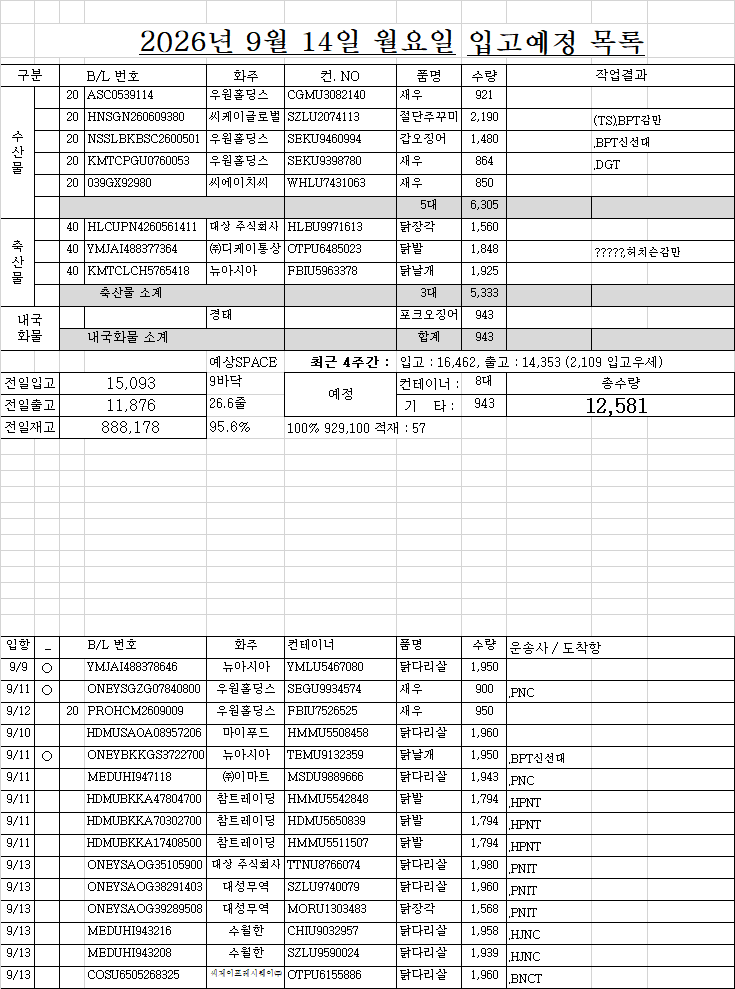
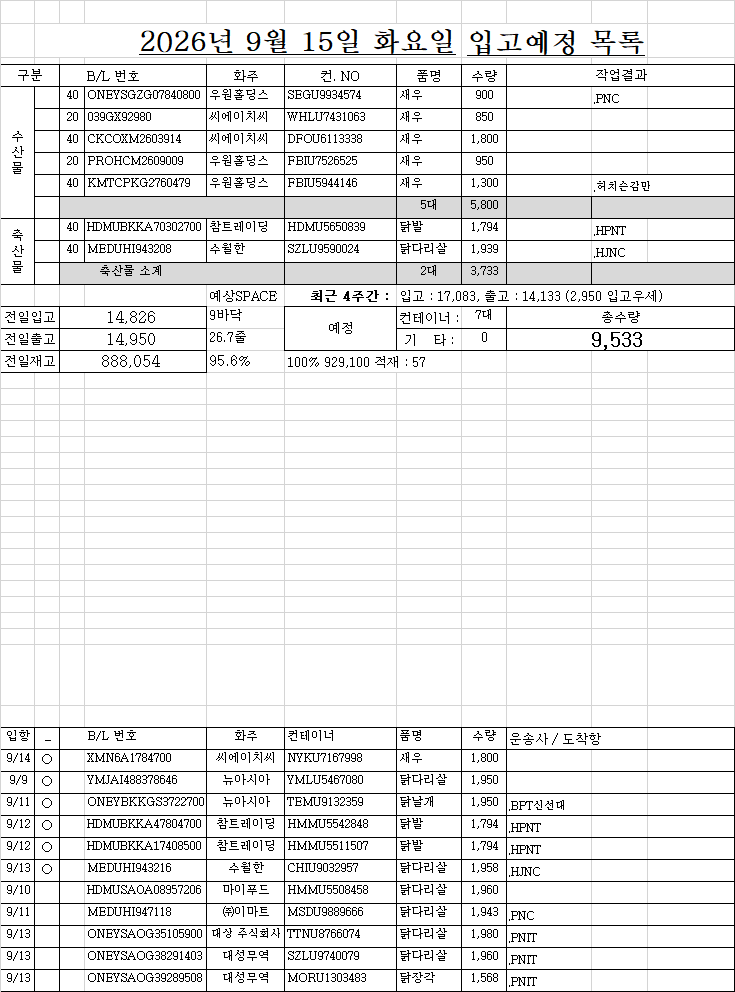
0914

diff --git a/list.html b/list.html
@@ -171,43 +171,41 @@
 <!-- ★★★★★★ 따로 빼 놔야한다. 복붙하면 첫칸 비어도 되는데, 여기서는 첫칸비우면 당겨진다. -->
 <!-- ★ 엑셀범위를 브라우저 textarea에 붙여넣으면 첫셀 비어도 제대로 되는데... HTML에 붙여놓은 자료는 처음셀이 비어있으면 당겨짐 -->
 <div class="d-none" id="원본text_리스트1부터w요약열까지">작성	면허	B/LNO.	화주	컨테이너NO.	품명	수량	반입NO.	입항일	구분	도착일	도착시간	구분	운도VBA	04/27 월 07:21	화찰BL	화찰 선명	화물관리번호	화찰수량	화찰중량	화찰입항	리스트시트기준열	
-1	○	ASC0539114	우원홀딩스	CGMU3082140	새우	921 		9/9	1			20		면허?, CY : (주)비엔씨티(CY), 컨진행 : 반입완료, 선사 : 씨엠에이씨지엠코리아(주)	ASC0539114	CNC PANTHER	26CCAS0354I-2045-	921 	7,979.60 	2026.09.09	09/11 금 16:41	
-1	○	HNSGN260609380	씨케이글로벌	SZLU2074113	절단주꾸미	2,190 		9/10	1			20	(TS).BPT감만		HNSGN260609380	TS GUANGZHOU	26TSLUB107I-1008-0001	2,190 	16,425.00 	2026.09.10	조회정보	
-1	○	NSSLBKBSC2600501	우원홀딩스	SEKU9460994	갑오징어	1,480 		9/11	1			20	.BPT신선대		NSSLBKBSC2600501	PEGASUS PROTO	26NSSLI015I-3001-	1,480 	7,400.00 	2026.09.11	적재	57
-1	○	KMTCPGU0760053	우원홀딩스	SEKU9398780	새우	864 		9/11	1			20	.DGT	면허?, CY : 동원글로벌터미널부산(주), 컨진행 : 입항적재화물목록 제출, 선사 : 만해항운 한국(주)	KMTCPGU0760053	WAN HAI 501	26WHLUCI18I-7018-	864 	14,135.04 	2026.09.11	4,617 	3줄
-1		039GX92980	씨에이치씨	WHLU7431063	새우	850 		9/13	1			20		면허?, CY : 신선대감만터미널(주) 감만CY, 컨진행 : 입항적재화물목록 제출, 선사 : 만해항운 한국(주)	039GX92980	WAN HAI 371	26WHLUVS22I-1087-	850 	9,775.00 	2026.09.13	6,156 	4줄
-1	○	HLCUPN4260561411	대상 주식회사	HLBU9971613	닭장각	1,560 		8/24	2					(주)골든로지텍, CY : 부산신항국제터미널(주), 컨진행 : 보세운송 신고 수리, 선사 : 하파그로이드코리아(주)	HLCUPN4260561411	PRAGUE EXPRESS	26HLCU9950I-7663-	1,560 	24,164.24 	2026.08.24	7,695 	5줄
-1	○	YMJAI488377364	㈜디케이통상	OTPU6485023	닭발	1,848 		9/9	2				?????,허치슨감만	(주)민성로직스, CY : 한국허치슨터미널(주), 컨진행 : 반입완료, 선사 : 오션네트워크익스프레스코리아(주)	YMJAI488377364	MARIA C	26ONEY1339I-4113-	1,848 	23,192.00 	2026.09.09	9,234 	6줄
-1		KMTCLCH5765418	뉴아시아	FBIU5963378	닭날개	1,925 		9/10	2					면허?, CY : 한국허치슨터미널(주), 컨진행 : 반입완료, 선사 : 고려해운(주)	KMTCLCH5765418	SKY SUNSHINE	26KMTC3099I-9008-	1,925 	24,640.00 	2026.09.10	구분	대수
-2	○	YMJAI488378646	뉴아시아	YMLU5467080	닭다리살	1,950 		9/9	2					에이스로지스틱(주), CY : 한국허치슨터미널(주), 컨진행 : 보세운송 신고 수리, 선사 : 오션네트워크익스프레스코리아(주)	YMJAI488378646	MARIA C	26ONEY1339I-4115-	1,950 	24,453.00 	2026.09.09	출고입고	4주간
-2	○	ONEYSGZG07840800	우원홀딩스	SEGU9934574	새우	900 		9/11	1				.PNC	(주)에스에스물류, CY : 부산신항만(주)자유무역지역, 컨진행 : 보세운송 신고 수리, 선사 : 벤라인에이전시즈코리아	ONEYSGZG07840800	X-PRESS BARDSEY	26XPRS2636I-5010-	900 	4,455.00 	2026.09.11	1일 7/5	9바닥줄
-2		PROHCM2609009	우원홀딩스	FBIU7526525	새우	950 		9/12	1			20									14,627 	9.5
-3		HDMUSAOA08957206	마이푸드	HMMU5508458	닭다리살	1,960 		9/10	2					면허?, CY : 에이치엠엠피에스에이신항만(주), 컨진행 : 하선장소 반입기간연장 승인신청, 선사 : 에이치엠엠(주)	HDMUSAOA08957206	HYUNDAI VOYAGER	26HDMUA475I-0078-	1,960 	24,500.00 	2026.09.10	16,452 	10.7
-3	○	ONEYBKKGS3722700	뉴아시아	TEMU9132359	닭날개	1,950 		9/11	2				.BPT신선대	에이스로지스틱(주), CY : 신선대감만터미널(주) 신선대CY, 컨진행 : 입항적재화물목록 운항정보 정정, 선사 : 장금상선(주)	ONEYBKKGS3722700	SAWASDEE BALTIC	26SNKO3315I-3100-	1,950 	24,453.00 	2026.09.11	내국제외	
-3		MEDUHI947118	㈜이마트	MSDU9889666	닭다리살	1,943 		9/11	2				.PNC	면허?, CY : 부산신항만(주)자유무역지역, 컨진행 : 입항적재화물목록 심사완료, 선사 : 엠에스씨코리아(주)	MEDUHI947118	MSC LENI	26MSCU4337I-0331-	1,943 	24,305.08 	2026.09.11	구분	대수
-3		HDMUBKKA47804700	참트레이딩	HMMU5542848	닭발	1,794 		9/11	2				.HPNT	면허?, CY : 에이치엠엠피에스에이신항만(주), 컨진행 : 하선신고 수리완료, 선사 : 에이치엠엠(주)	HDMUBKKA47804700	HMM HARMONY	26HDMUA438I-0150-	1,794 	22,604.40 	2026.09.11	수산	15 
-3		HDMUBKKA70302700	참트레이딩	HDMU5650839	닭발	1,794 		9/11	2				.HPNT	면허?, CY : 에이치엠엠피에스에이신항만(주), 컨진행 : 하선신고 수리완료, 선사 : 에이치엠엠(주)	HDMUBKKA70302700	HMM HARMONY	26HDMUA438I-0155-	1,794 	22,604.40 	2026.09.11	축산	39 
-3		HDMUBKKA17408500	참트레이딩	HMMU5511507	닭발	1,794 		9/11	2				.HPNT	면허?, CY : 에이치엠엠피에스에이신항만(주), 컨진행 : 하선신고 수리완료, 선사 : 에이치엠엠(주)	HDMUBKKA17408500	HMM HARMONY	26HDMUA438I-0137-	1,794 	22,604.40 	2026.09.11	합계	54 
-		ONEYSAOG35105900	대상 주식회사	TTNU8766074	닭다리살	1,980 		9/13	2				.PNIT									
-		ONEYSAOG38291403	대성무역	SZLU9740079	닭다리살	1,960 		9/13	2				.PNIT								화주	대수
-		ONEYSAOG39289508	대성무역	MORU1303483	닭장각	1,568 		9/13	2				.PNIT								수월한	13
-		MEDUHI943216	수월한	CHIU9032957	닭다리살	1,958 		9/13	2				.HJNC	면허?, CY : 한진부산컨테이너터미널(주), 컨진행 : 입항적재화물목록 제출, 선사 : 오션네트워크익스프레스코리아(주)	MEDUHI943216	ONE INGENUITY	26ONEY1455I-1129-	1,958 	24,486.83 	2026.09.13	우원홀딩스	8
-		MEDUHI943208	수월한	SZLU9590024	닭다리살	1,939 		9/13	2				.HJNC	면허?, CY : 한진부산컨테이너터미널(주), 컨진행 : 입항적재화물목록 제출, 선사 : 오션네트워크익스프레스코리아(주)	MEDUHI943208	ONE INGENUITY	26ONEY1455I-1118-	1,939 	24,249.16 	2026.09.13	뉴아시아	5
-		COSU6505268325	씨제이프레시웨이㈜	OTPU6155886	닭다리살	1,960 		9/13	2				.BNCT								수월한 주식회사	5
-		KMTCPKG2760479	우원홀딩스	FBIU5944146	새우	1,300 		9/14	1			40	.허치슨감만								대성무역	4
-		HASLS22260802478	뉴아시아	FBIU5102507	닭고기	1,950 		9/15	2												참트레이딩	3
-		MAEUJBS323107	수월한 주식회사	MNBU3889662	닭다리살	1,952 		9/15	2				.PNC			GUNVOR MAERSK					씨에이치씨	3
-		MAEUJBS322521	수월한 주식회사	MNBU3402959	닭다리살	1,941 		9/15	2				.PNC			확인안함					대상 주식회사	3
-		DJSCBKK260001929	동일	SZLU2068569	절단낙지	1,674 		9/16	1			20									씨케이글로벌	3
-		ONEYSGNGU5969400	우원홀딩스	SZLU2030877	새우	850 		9/16	1			20									마이푸드	2
-		ONEYSGNGU5970300	우원홀딩스	TCLU1909949	새우	660 		9/16	1			20									㈜디케이통상	1
-		HDMUSAOA83035800	수월한	HMMU5426600	닭다리살	1,845 		9/17	2				.HPNT								씨제이프레시웨이㈜	1
-		ONEYSAOG39289506	수월한	FSCU5884536	닭다리살	1,917 		9/19	2				.HJNC								㈜이마트	1
-		MAEUJBS323534	수월한 주식회사	MNBU3209030	닭다리살	1,947 		9/19	2				.PNC			MAERSK SALINA					동일	1
-		HDMUSAOA27114300	수월한	HMMU5410646	닭발	1,551 		9/21	2				.HPNT								주식회사 아스트로스	1
-		ONEYSAOG41254402	대성무역	FSCU5833518	닭장각	1,568 		9/22	2				.PNC									
-		HLCUIT1260704527	수월한	TCLU1190449	닭다리살	1,917 		9/23	2				.PNIT									
-		MAEUJBS322768	수월한 주식회사	MNBU3886339	닭다리살	1,958 		9/24	2				.PNC			MAERSK EDINBURGH						
+1	○	ONEYSGZG07840800	우원홀딩스	SEGU9934574	새우	900 		9/11	1				.PNC	(주)에스에스물류, CY : 부산신항만(주)자유무역지역, 컨진행 : 반입완료, 선사 : 벤라인에이전시즈코리아	ONEYSGZG07840800	X-PRESS BARDSEY	26XPRS2636I-5010-	900 	4,455.00 	2026.09.11	09/14 월 16:41	
+1		039GX92980	씨에이치씨	WHLU7431063	새우	850 		9/13	1			20		면허?, CY : 신선대감만터미널(주) 감만CY, 컨진행 : 입항적재화물목록 운항정보 정정, 선사 : 만해항운 한국(주)	039GX92980	WAN HAI 371	26WHLUVS22I-1087-	850 	9,775.00 	2026.09.13	조회정보	
+1		CKCOXM2603914	씨에이치씨	DFOU6113338	새우	1,800 		9/14	1			40		면허?, CY : 케이씨티시우암컨테이너보세창고, 컨진행 : 입항적재화물목록 운항정보 정정, 선사 : 천경해운(주), 포딩 : 주식회사 엔제이글로벌	CKCOXM2603914	SKY ORION	26CKCO0938I-2150-0001	1,800 	21,000.00 	2026.09.14	적재	57
+1	○	PROHCM2609009	우원홀딩스	FBIU7526525	새우	950 		9/14	1			20		면허?, CY : 동일냉장(주), 컨진행 : 하선신고 수리완료, 선사 : 남성해운주식회사, 포딩 : 이산글로벌로지스틱주식회사	PROHCM2609009	STARSHIP URSA	26NSSLI049I-2582-0001	950 	6,840.00 	2026.09.14	4,617 	3줄
+1		KMTCPKG2760479	우원홀딩스	FBIU5944146	새우	1,300 		9/14	1			40	.허치슨감만	면허?, CY : 한국허치슨터미널(주), 컨진행 : 입항적재화물목록 심사완료, 선사 : 고려해운(주)	KMTCPKG2760479	ZHONG GU YING KOU	26KMTC3117I-0062-	1,300 	10,010.00 	2026.09.14	6,156 	4줄
+1	○	HDMUBKKA70302700	참트레이딩	HDMU5650839	닭발	1,794 		9/12	2				.HPNT	면허?, CY : 에이치엠엠피에스에이신항만(주), 컨진행 : 반입완료, 선사 : 에이치엠엠(주)	HDMUBKKA70302700	HMM HARMONY	26HDMUA438I-0155-	1,794 	22,604.40 	2026.09.12	7,695 	5줄
+1	○	MEDUHI943208	수월한	SZLU9590024	닭다리살	1,939 		9/13	2				.HJNC	천일정기화물자동차(주), CY : 한진부산컨테이너터미널(주), 컨진행 : 반입완료, 선사 : 오션네트워크익스프레스코리아(주)	MEDUHI943208	ONE INGENUITY	26ONEY1455I-1118-	1,939 	24,249.16 	2026.09.13	9,234 	6줄
+2	○	XMN6A1784700	씨에이치씨	NYKU7167998	새우	1,800 		9/14	1					(주)에스에스물류, CY : 신선대감만터미널(주) 신선대CY, 컨진행 : 보세운송 신고 수리, 선사 : 에스엠상선, 포딩 : 주식회사 엔제이글로벌	XMN6A1784700	SM TOKYO	26SMLM0311I-0015-0001	1,800 	21,000.00 	2026.09.14	구분	대수
+3	○	YMJAI488378646	뉴아시아	YMLU5467080	닭다리살	1,950 		9/9	2					에이스로지스틱(주), CY : 한국허치슨터미널(주), 컨진행 : 보세운송 신고 수리, 선사 : 오션네트워크익스프레스코리아(주)	YMJAI488378646	MARIA C	26ONEY1339I-4115-	1,950 	24,453.00 	2026.09.09	출고입고	4주간
+3	○	ONEYBKKGS3722700	뉴아시아	TEMU9132359	닭날개	1,950 		9/11	2				.BPT신선대	에이스로지스틱(주), CY : 신선대감만터미널(주) 신선대CY, 컨진행 : 반입완료, 선사 : 장금상선(주)	ONEYBKKGS3722700	SAWASDEE BALTIC	26SNKO3315I-3100-	1,950 	24,453.00 	2026.09.11	1일 7/5	9바닥줄
+3	○	HDMUBKKA47804700	참트레이딩	HMMU5542848	닭발	1,794 		9/12	2				.HPNT	면허?, CY : 에이치엠엠피에스에이신항만(주), 컨진행 : 반입완료, 선사 : 에이치엠엠(주)	HDMUBKKA47804700	HMM HARMONY	26HDMUA438I-0150-	1,794 	22,604.40 	2026.09.12	14,133 	9.2
+3	○	HDMUBKKA17408500	참트레이딩	HMMU5511507	닭발	1,794 		9/12	2				.HPNT	면허?, CY : 에이치엠엠피에스에이신항만(주), 컨진행 : 반입완료, 선사 : 에이치엠엠(주)	HDMUBKKA17408500	HMM HARMONY	26HDMUA438I-0137-	1,794 	22,604.40 	2026.09.12	17,083 	11.1
+3	○	MEDUHI943216	수월한	CHIU9032957	닭다리살	1,958 		9/13	2				.HJNC	천일정기화물자동차(주), CY : 한진부산컨테이너터미널(주), 컨진행 : 반입완료, 선사 : 오션네트워크익스프레스코리아(주)	MEDUHI943216	ONE INGENUITY	26ONEY1455I-1129-	1,958 	24,486.83 	2026.09.13	내국제외	
+4		HDMUSAOA08957206	마이푸드	HMMU5508458	닭다리살	1,960 		9/10	2					면허?, CY : 에이치엠엠피에스에이신항만(주), 컨진행 : 하선장소 반입기간연장 승인, 선사 : 에이치엠엠(주)	HDMUSAOA08957206	HYUNDAI VOYAGER	26HDMUA475I-0078-	1,960 	24,500.00 	2026.09.10	구분	대수
+4		MEDUHI947118	㈜이마트	MSDU9889666	닭다리살	1,943 		9/11	2				.PNC	면허?, CY : 부산신항만(주)자유무역지역, 컨진행 : 반입완료, 선사 : 엠에스씨코리아(주)	MEDUHI947118	MSC LENI	26MSCU4337I-0331-	1,943 	24,305.08 	2026.09.11	수산	14 
+4		ONEYSAOG35105900	대상 주식회사	TTNU8766074	닭다리살	1,980 		9/13	2				.PNIT								축산	41 
+4		ONEYSAOG38291403	대성무역	SZLU9740079	닭다리살	1,960 		9/13	2				.PNIT								합계	55 
+4		ONEYSAOG39289508	대성무역	MORU1303483	닭장각	1,568 		9/13	2				.PNIT									
+		COSU6505268325	씨제이프레시웨이㈜	OTPU6155886	닭다리살	1,960 		9/13	2				.BNCT								화주	대수
+		HASLS22260802478	뉴아시아	FBIU5102507	닭고기	1,950 		9/15	2												수월한	13
+		MAEUJBS323107	수월한 주식회사	MNBU3889662	닭다리살	1,952 		9/15	2				.PNC			GUNVOR MAERSK					우원홀딩스	6
+		MAEUJBS322521	수월한 주식회사	MNBU3402959	닭다리살	1,941 		9/15	2				.PNC			확인안함					수월한 주식회사	5
+		HDMUSGNA31757500	한국축지	HMMU5203973	갑오징어	1,400 		9/15	1			20									뉴아시아	4
+		DJSCBKK260001929	동일	SZLU2068569	절단낙지	1,674 		9/16	1			20									대성무역	4
+		ONEYSGNGU5969400	우원홀딩스	SZLU2030877	새우	850 		9/16	1			20									씨에이치씨	4
+		ONEYSGNGU5970300	우원홀딩스	TCLU1909949	새우	660 		9/16	1			20									참트레이딩	3
+		COSU6502560470	대상 주식회사	OERU4239672	닭다리살	1,916 		9/17	2												대상 주식회사	3
+		HDMUSAOA83035800	수월한	HMMU5426600	닭다리살	1,845 		9/17	2				.HPNT								이마트	3
+		NYD022609048	우원홀딩스	HMMU5470500	새우	1,900 		9/17	1			40									마이푸드	2
+		ONEYSAOG39289506	수월한	FSCU5884536	닭다리살	1,917 		9/19	2				.HJNC								씨케이글로벌	2
+		MAEUJBS323534	수월한 주식회사	MNBU3209030	닭다리살	1,947 		9/19	2				.PNC			MAERSK SALINA					씨제이프레시웨이㈜	2
+		HDMUSAOA27114300	수월한	HMMU5410646	닭발	1,551 		9/21	2				.HPNT								동일	1
+		ONEYSAOG41254402	대성무역	FSCU5833518	닭장각	1,568 		9/22	2				.PNC								㈜이마트	1
+		HLCUIT1260704527	수월한	TCLU1190449	닭다리살	1,917 		9/23	2				.PNIT								주식회사 아스트로스	1
+		MAEUJBS322768	수월한 주식회사	MNBU3886339	닭다리살	1,958 		9/24	2				.PNC			MAERSK EDINBURGH					한국축지	1
 		HDMUSAOA06354300	수월한	HMMU5433847	닭다리살	1,958 		9/26	2				.HPNT									
 		HDMUSAOA68130100	수월한	HMMU5534164	닭다리살	1,958 		9/26	2				.HPNT									
 		MAEUJBS323920	수월한 주식회사	MNBU0175975	닭다리살	1,948 		9/26	2				.PNC			MAERSK TOKYO						
@@ -224,8 +222,10 @@
 		MAEUJBS328088	수월한	MNBU0340489	닭다리살	1,839 			2													
 		MAEUJBS327643	수월한	MNBU0422036	닭다리살	1,958 			2													
 		INFHCM2609001	씨에이치씨	ONEU8005330	새우	950 			1			20										
-		XMN6A1784700	씨에이치씨	NYKU7167998	새우	1,800 			1													
-
+		HDMUSAOA92812701	씨제이프레시웨이㈜	HMMU5410184	닭다리살	1,960 			2													
+		MAEUJBS323546	이마트	TLLU7000400	닭다리살	1,936 			2													
+		MEDUWE233103	이마트	SZLU9363150	닭다리살	1,944 			2													
+		MAEUJBS323762	이마트	MNBU3180194	닭다리살	1,928 			2													
 </div>
 <div class="d-none" id="원본text_입항관리도크부터도착항우측까지">도크	화주	컨테이너	작업순서	상세내용 참조		운송사	물품		06/05 목 16:15	B/L	도착항	상세내용
 </div>   

diff --git a/portal/assets/js/kim2.js b/portal/assets/js/kim2.js
@@ -222,8 +222,193 @@ fetch('당번.txt')
 
 
 }
+function 추출clear() {
+  document.querySelector('#분석추출내용').innerHTML='';
+}
+function 추출계산() {
+  console.log('추출계산')
+}
+function 전체추출실행() {
+  console.log('전체추출실행');
+    //span 1~6:번호6, 7~9:이월,이웃,
+  let 당번,이웃,당번이웃,장미,미출,출1,출2,출3,삼십2,삼십3,삼십4,삼십5,삼십6,삼십합=0;
+  당번=$('#분석자료변수 .공통변수_당번').html().split(',');
+  이웃=$('#분석자료변수 .공통변수_이웃').html().split(',');
+  당번이웃=$('#분석자료변수 .공통변수_당번이웃').html().split(',');
+  장미=($('#분석자료변수 .공통변수_10주0출').html() + ',' + $('#분석자료변수 .공통변수_15주0출').html()).split(',');
+  미출=$('#분석자료변수 .공통변수_5주0출').html().split(',');
+  
+  출1=$('#분석자료변수 .공통변수_5주1출').html().split(',');
+  출2=$('#분석자료변수 .공통변수_5주2출').html().split(',');
+  출3=$('#분석자료변수 .공통변수_5주3출').html().split(',');
+  삼십2=$('#분석자료변수 .공통변수_30주2출').html().split(',');
+  삼십3=$('#분석자료변수 .공통변수_30주3출').html().split(',');
+  삼십4=$('#분석자료변수 .공통변수_30주4출').html().split(',');
+  삼십5=$('#분석자료변수 .공통변수_30주5출').html().split(',');
+  삼십6=$('#분석자료변수 .공통변수_30주6출').html().split(',');
+  let 반복횟수=document.getElementById('추출횟수').innerHTML;
+  const 컨테이너 = document.getElementById('분석추출내용');
+  if (isNaN(반복횟수)) {alert('반복횟수 입력필요');return;}
+  if (!컨테이너) return;
+
+  // 전체 HTML을 누적할 변수
+  let 전체HTML = '';
+  for (let i = 0; i < 반복횟수; i++) {
+    // 6개 숫자 배열 가져오기
+    const 결과배열 = 추출누적(); //숫자 배열 반환
+    console.log(결과배열.join(','));
+    if (결과배열.join(',')=='_,_,_,_,_,_') {alert('출수기록0 and 빈값채우기 미체크, 추출못함');return;}
+    
+    let 당번일치 = 결과배열.filter(숫자 => 당번.includes(String(숫자))).length;
+    let 이웃일치 = 결과배열.filter(숫자 => 이웃.includes(String(숫자))).length;
+    let 당번이웃일치 = 결과배열.filter(숫자 => 당번이웃.includes(String(숫자))).length;
+    let 장미일치 = 결과배열.filter(숫자 => 장미.includes(String(숫자))).length;
+    let 미출일치 = 결과배열.filter(숫자 => 미출.includes(String(숫자))).length;
+    let 출1일치 = 결과배열.filter(숫자 => 출1.includes(String(숫자))).length;
+    let 출2일치 = 결과배열.filter(숫자 => 출2.includes(String(숫자))).length;
+    let 출3일치 = 결과배열.filter(숫자 => 출3.includes(String(숫자))).length;
+    let 삼십2일치 = 결과배열.filter(숫자 => 삼십2.includes(String(숫자))).length;
+    let 삼십3일치 = 결과배열.filter(숫자 => 삼십3.includes(String(숫자))).length;
+    let 삼십4일치 = 결과배열.filter(숫자 => 삼십4.includes(String(숫자))).length;
+    let 삼십5일치 = 결과배열.filter(숫자 => 삼십5.includes(String(숫자))).length;
+    let 삼십6일치 = 결과배열.filter(숫자 => 삼십6.includes(String(숫자))).length;
+
+    if (!결과배열) {
+        continue; 
+    }
+    // span 태그들을 문자열로 생성
+    const span태그들 = 결과배열.map(값 => `<span>${값}</span>`).join('');
+
+    // 요청하신 구조의 HTML을 문자열로 누적
+    전체HTML += `
+      <div class="추출1단위">
+        <div class="추출6개">${span태그들}</div>
+        <div><span>${당번일치}</span><span>${이웃일치}</span><span>${당번이웃일치}</span></div>
+        <div><span>${장미일치}</span><span>${미출일치}</span><span>${출1일치}</span><span>${출2일치}</span><span>${출3일치}</span></div>
+        <div><span>${삼십2일치}</span><span>${삼십3일치}</span><span>${삼십4일치}</span><span>${삼십5일치}</span><span>${삼십6일치}</span><span>${삼십합}</span></div>
+      </div>
+    `;
+  }
+
+  // 마지막에 딱 한 번만 DOM에 삽입 (기존 내용 뒤에 누적)
+  컨테이너.insertAdjacentHTML('beforeend', 전체HTML);
+}
+
+function 추출누적() {
+  let 추출결과 = [];
+
+  document.querySelectorAll('.카운팅').forEach((요소) => {
+    let 추출개수 = 요소.innerHTML.trim();
+    let 숫자값 = Number(추출개수);
+
+    // 조건 검사: 숫자가 아니거나(NaN), 0이거나, 빈 문자열인 경우 건너뛰기
+    if (isNaN(숫자값) || 숫자값 === 0 || 추출개수 === "") {
+        return; 
+    }
+
+    // 1. 해당 요소의 하위에서 '.분석' 요소를 모두 찾습니다.
+    let 분석요소들 = 요소.parentElement.parentElement.querySelectorAll('.분석');
+    let 번호개수 = 분석요소들.length;
+
+    if (번호개수 < 숫자값) {
+        console.log('추출개수 : ' + 추출개수 + ', 번호개수 : ' + 번호개수 + ', 추출개수 초과!!, \n이 조건 무시하고 진행함'); 
+        return;
+    }
+
+    // 2. '분석' 클래스 요소의 innerHTML을 숫자 배열로 담기
+    let 분석숫자배열 = Array.from(분석요소들, el => Number(el.innerHTML.trim()));
+
+    // [질문 1] 분석숫자배열에서 중복 없이 추출개수(숫자값)만큼 무작위 추출하여 누적
+    // 배열을 무작위로 섞은 후 필요한 개수만큼 잘라냅니다. (비복원 추출)
+    let shuffled = [...분석숫자배열].sort(() => Math.random() - 0.5);
+    let 추출된숫자들 = shuffled.slice(0, 숫자값);
+
+    // 추출된 숫자들을 전체 결과 배열에 누적합니다.
+    추출결과.push(...추출된숫자들);
+  });
+
+  // [질문 2] 고유값 추출, 6개 맞추기(부족하면 "_"), 숫자 오름차순 정렬
+  // 1) 고유값(중복 제거) 추출
+  let 고유추출결과 = [...new Set(추출결과)];
+
+  // ★ 추가: 추출된 고유값이 하나도 없다면 null을 반환하여 실패임을 알림 ~~~ if 구문 없으면 출수 하나도 없을때 임의 픽하게됨
+  //if (고유추출결과.length === 0) {
+  //    console.log("추출된 유효한 값이 없습니다.");
+  //    return null; 
+  //}
+
+  let 채우기 = document.getElementById('빈값채우기설정').checked;
+
+  let 최종결과 = [];
+  for (let i = 0; i < 6; i++) {
+    if (i < 고유추출결과.length) {
+      최종결과.push(고유추출결과[i]);
+    } else {
+      if (채우기 === false) {
+        최종결과.push("_");
+      } else {
+        // 1~45 중에서 최종결과에 없는 숫자만 추림
+        let 후보숫자 = [];
+
+        for (let 숫자 = 1; 숫자 <= 45; 숫자++) {
+          if (!최종결과.includes(숫자)) {
+            후보숫자.push(숫자);
+          }
+        }
+
+        // 후보 숫자 중 무작위로 하나 선택
+        let 무작위숫자 = 후보숫자[
+          Math.floor(Math.random() * 후보숫자.length)
+        ];
+
+        최종결과.push(무작위숫자);
+      }
+    }
+  }
 
 
+  // 최종 결과 확인용 (원하시는 형태로 리턴하거나 화면에 출력하세요)
+  최종결과.sort((a, b) => a - b);
+  return 최종결과;
+}
+function 추출결과정렬() {
+
+    const 컨테이너 = document.getElementById('분석추출내용');
+    if (!컨테이너) return;
+
+    const 항목들 = Array.from(
+        컨테이너.querySelectorAll('.추출1단위')
+    );
+
+    항목들.sort((a, b) => {
+
+        const a번호 = Array.from(
+            a.querySelectorAll('.추출6개 span')
+        ).map(el => Number(el.textContent));
+
+        const b번호 = Array.from(
+            b.querySelectorAll('.추출6개 span')
+        ).map(el => Number(el.textContent));
+        // 첫 번째 숫자부터 차례대로 비교
+        for (let i = 0; i < 6; i++) {
+
+            // "_" 처리
+            if (isNaN(a번호[i]) && !isNaN(b번호[i])) return 1;
+            if (!isNaN(a번호[i]) && isNaN(b번호[i])) return -1;
+
+            if (a번호[i] !== b번호[i]) {
+                return a번호[i] - b번호[i];
+            }
+        }
+
+        return 0;
+    });
+
+    // 정렬된 순서대로 다시 DOM에 삽입
+    항목들.forEach(항목 => {
+        컨테이너.appendChild(항목);
+    });
+}
 
 
 function 당번회귀설정_30회분번호표시() {

diff --git a/kim2.html b/kim2.html
@@ -89,7 +89,7 @@
     <label class="form-check-label" for="check_칸_당번선긋기" style="background-color: chocolate;">당번선긋기</label>
   </div>
   <div onchange="체크this활용(this);">
-    <input class="form-check-input 체크input" type="checkbox" value="" id="check_분석추출">
+    <input class="form-check-input 체크input" type="checkbox" value="" id="check_분석추출" checked>
     <label class="form-check-label" for="check_분석추출" style="background-color: chocolate;">분석추출</label>
   </div>
   <div onchange="체크this활용(this);" class="d-inline-block">
@@ -101,7 +101,7 @@
     <label class="form-check-label">5주30주</label>
   </div>
   <div onchange="체크this활용(this);">
-    <input class="form-check-input 체크input" type="checkbox" value="" id="check_칸_기본3종" checked>
+    <input class="form-check-input 체크input" type="checkbox" value="" id="check_칸_기본3종">
     <label class="form-check-label" for="check_칸_간격과삼이일">기본3종</label>
   </div>
   <div onchange="체크this활용(this);">
@@ -419,8 +419,48 @@
   </div>
 
 </div>
-<div id="분석추출" class="이동리스트 숨김리스트 d-none">
- 
+<div id="분석추출" class="이동리스트 숨김리스트 d-none 모노">
+  <!-- div 안에 다음 div, 1)당번, 2)  -->
+  <div id="분석추출설명줄" style="position: relative;"><input class="form-check-input" type="checkbox" style="position:absolute;top:-3px;" value="" id="빈값채우기설정">
+    <label class="form-check-label" style="margin-right:10px;margin-left:30px; width:50px; border:none" for="빈값채우기설정">빈값채우기</label>
+    <button style="width:40px;background-color: aqua;" onclick="추출결과정렬();">정렬</button>
+    <button style="width:60px;background-color: aqua;">추출계산</button> 
+    <button style="width:70px;" onclick="추출clear();">추출clear</button>
+    <span style="border:none;margin-right:20px;">추출횟수</span>
+    <span id="추출횟수" style="text-align: center; display:inline-block; width:35px;border:1px solid black;" contenteditable="true">10</span>
+    <button style="width:60px;" onclick="전체추출실행();">추출누적</button>
+    <span style="border:none;margin-right:20px;">자료개수</span>
+    <span id="자료개수" style="text-align: center; display:inline-block; width:45px;border:1px solid black;"></span>
+  </div>
+  <div id="sort부터">
+    <div><span>이월</span><span style="background-color:yellow"></span><span>이웃</span><span style="background-color:darkcyan"></span><span style="background-color: rgb(216, 206, 206);">당첨</span><span style="background-color: rgb(216, 206, 206);">개수</span></div>
+    <div><span>이월</span><span>이웃</span><span>합</span></div>
+    <div><span>장미</span><span>미출</span><span>1출</span><span>2출</span><span>3출</span></div>
+    <div><span>2</span><span>3</span><span>4</span><span>5</span><span>6</span><span>합</span></div>
+  </div>
+  <div id="sort까지">
+    <div><span>이월</span><span style="background-color:yellow"></span><span>이웃</span><span style="background-color:darkcyan"></span><span style="background-color: rgb(216, 206, 206);">당첨</span><span style="background-color: rgb(216, 206, 206);">개수</span></div>
+    <div><span>이월</span><span>이웃</span><span>합</span></div>
+    <div><span>장미</span><span>미출</span><span>1출</span><span>2출</span><span>3출</span></div>
+    <div><span>2</span><span>3</span><span>4</span><span>5</span><span>6</span><span>합</span></div>
+  </div>
+  <div id="분석추출머리글">
+    <div><span>이월</span><span style="background-color:yellow"></span><span>이웃</span><span style="background-color:darkcyan"></span><span style="background-color: rgb(216, 206, 206);">당첨</span><span style="background-color: rgb(216, 206, 206);">개수</span></div>
+    <div><span>이월</span><span>이웃</span><span>합</span></div>
+    <div><span>장미</span><span>미출</span><span>1출</span><span>2출</span><span>3출</span></div>
+    <div><span>2</span><span>3</span><span>4</span><span>5</span><span>6</span><span>합</span></div>
+  </div>
+  <div id="분석추출내용">
+    <!--  
+    <div class="추출1단위">
+      <div class="추출6개"><span></span><span></span><span></span><span></span><span></span><span></span></div>
+      <div><span></span><span></span><span></span></div>
+      <div><span></span><span></span><span></span><span></span><span></span></div>
+      <div><span></span><span></span><span></span><span></span><span></span><span></span></div>
+    </div>-->
+  </div>
+
+
 </div>
 <div id="분석자료45칸" class="이동리스트 숨김리스트 d-none d-inline-block"  style="margin-bottom:300px;margin-left:10px;">
   <div id="분석자료_다음회차"><button style="width:57px;margin-right:0px;"></button> <button style="width:100px;"></button><button></button><button></button><button></button><button></button><button></button><button></button><button></button>

diff --git a/portal/assets/css/kim2.css b/portal/assets/css/kim2.css
@@ -33,6 +33,7 @@ body > div {display:inline-block}
 .크기14 {font-size:14px;}
 #칸_간격과삼이일_위 > div, #칸_간격과삼이일_아래 > div, #칸_삼십회_위 > div, #칸_삼십회_아래 > div,
 #칸_이월이웃수_위 > div, #칸_이월수_아래 > div, #칸_이웃수_아래 > div, #칸_이월이웃수_위_번호대 > div {height:22px;}
+
 #칸_간격과삼이일_위 > div > span, #칸_간격과삼이일_아래 > div > span, #칸_삼십회_위 > div > span, #칸_삼십회_아래 > div > span,
 #칸_이월이웃수_위 > div > span, #칸_이월수_아래 > div > span, #칸_이웃수_아래 > div > span, #칸_이월이웃수_위_번호대 > div > span
  {display: inline-block;border:1px solid black;width:27px;height:22px;vertical-align: top;padding-top:1px;
@@ -47,7 +48,24 @@ body > div {display:inline-block}
 #칸_간격과삼이일_아래 > div > span:first-child {border:none;}
 #칸_간격과삼이일_아래 > div > span:nth-child(2) {font-weight: lighter; background-color: rgb(216, 206, 206);}
 #칸_삼십회_아래 > div > span:last-child, #칸_삼십회_아래 > div:first-child > span, #칸_삼십회_아래 > div > span:nth-of-type(2),
- #칸_삼십회_아래 > div > span:nth-of-type(3), #칸_삼십회_아래 > div > span:nth-of-type(4) { background-color: rgb(216, 206, 206);}
+#칸_삼십회_아래 > div > span:nth-of-type(3), #칸_삼십회_아래 > div > span:nth-of-type(4) { background-color: rgb(216, 206, 206);}
+
+#분석추출머리글 > div {display:inline-block}
+#분석추출내용 > div > div> span, #분석추출머리글 > div > span, #분석추출설명줄 *
+ {display: inline-block;border:1px solid black;width:27px;height:22px;vertical-align: top;padding-top:1px;
+  font-size:12px;font-weight: bold;text-align: center;margin-right:-1px;}
+#분석추출내용 > div {margin-bottom:-3px;}
+#분석추출내용 > div > div {display:inline-block}
+#분석추출내용 > div > div:nth-of-type(3) > span:nth-of-type(1),
+#분석추출내용 > div > div:nth-of-type(4) > span:not(:nth-of-type(1), :nth-of-type(5)),
+#분석추출머리글 > div:nth-of-type(3) > span,
+#분석추출머리글 > div:nth-of-type(4) > span {background-color: rgb(216, 206, 206);}
+#분석추출내용 > div > div:nth-of-type(2) > span:nth-of-type(1),
+#분석추출머리글 > div:nth-of-type(2) > span:nth-of-type(1) {background-color:yellow;}
+#분석추출내용 > div > div:nth-of-type(2) > span:nth-of-type(2),
+#분석추출머리글 > div:nth-of-type(2) > span:nth-of-type(2) {background-color:darkcyan;}
+#분석추출내용 > div > div:nth-of-type(2) > span:nth-of-type(3),
+#분석추출머리글 > div:nth-of-type(2) > span:nth-of-type(3) {background-color: rgb(216, 206, 206);}
 
 #칸_이웃수_아래 > div > span:nth-of-type(7), #칸_이웃수_아래 > div > .이월색칠 {background-color:yellow}
 #칸_이웃수_아래 > div > span:nth-of-type(8), #칸_이웃수_아래 > div > .이웃색칠 {background-color:darkcyan}
